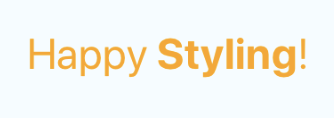
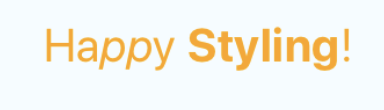
Doc: improved examples

Changed region(s): [[0.0898, 0.2455, 0.9281, 0.6818]]

diff --git a/App.js b/App.js
@@ -24,7 +24,7 @@ export default class App extends Component<Props> {
     return (
       <View style={styles.container}>
         <StyledText 
-          text="Welcome to <b><u>React Native</u> <demo>Styled Text</demo></b> demo!"
+          text="Welcome to <b><u>React Native</u> <demo><i>Styled</i> Text</demo></b> demo!"
           style={styles.welcome}
           textStyles={textStyles}
         />
@@ -111,7 +111,6 @@ const textStyles = StyleSheet.create({
     textShadowColor: '#555555',
     textShadowRadius: 6,
     fontSize: 18,
-    fontStyle: 'italic',
     color: '#22AA44',
   },
   code: {

diff --git a/README.md b/README.md
@@ -39,7 +39,7 @@ import { StyledText } from 'react-native-styled-text';
 
 ...
   <StyledText
-    text="Happy <b>Styling</b>!"
+    text="Ha<i>pp</i>y <b>Styling</b>!"
     style={styles.header}
   />
 ...
@@ -70,7 +70,7 @@ import { StyledText } from 'react-native-styled-text';
 
 ...
   <StyledText 
-    text="Welcome to <b>React Native <demo>Styled Text</demo></b> demo!"
+    text="Welcome to <b><u>React Native</u> <demo><i>Styled</i> Text</demo></b> demo!"
     style={styles.welcome}
     textStyles={textStyles}
   />
@@ -90,7 +90,6 @@ const textStyles = StyleSheet.create({
     textShadowColor: '#555555',
     textShadowRadius: 6,
     fontSize: 24,
-    fontStyle: 'italic',
     color: '#22AA44',
   },
 });
